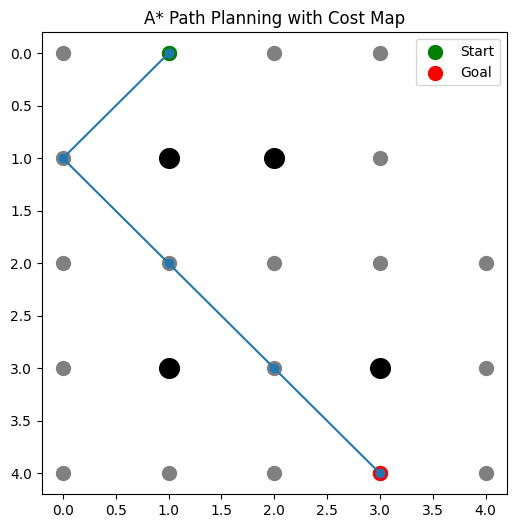
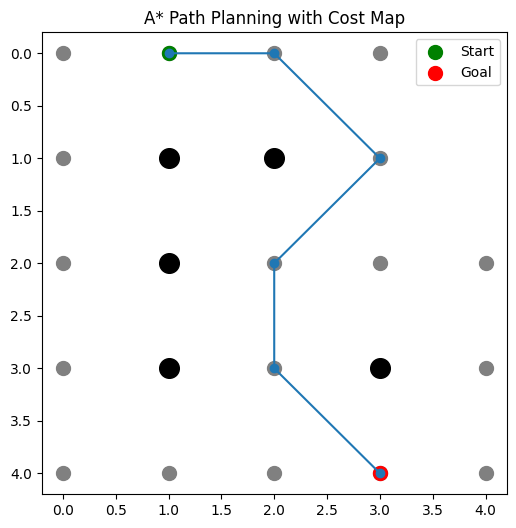
Added dynamic obstacle handling and path replanning

diff --git a/main.py b/main.py
@@ -66,6 +66,10 @@ def create_cost_map(grid):
 
     return cost_map
 
+def add_dynamic_obstacle(grid, position):
+    r, c = position
+    if 0 <= r < len(grid) and 0 <= c < len(grid[0]):
+        grid[r][c] = 1
 
 # =========================
 # A* ALGORITHM
@@ -136,7 +140,9 @@ def visualize(grid, path, start, goal):
     plt.title("A* Path Planning with Cost Map")
 
     plt.savefig("output.png", bbox_inches='tight')  # SAVE IMAGE
-    plt.show()
+    plt.show(block=False)
+    plt.pause(2)
+    plt.close()
 
 
 # =========================
@@ -180,11 +186,20 @@ if __name__ == "__main__":
     start = (0, 1)
     goal = (len(grid)-1, len(grid[0])-2)
 
-    path = astar(grid, start, goal)
+    # FIRST PATH
+    path1 = astar(grid, start, goal)
 
-    if path:
-        print("Path found:", path)
-    else:
-        print("No path found")
+    print("Initial Path:", path1)
+    visualize(grid, path1, start, goal)
 
-    visualize(grid, path, start, goal)
+    # ADD DYNAMIC OBSTACLE (middle of path)
+    if path1 and len(path1) > 3:
+        block = path1[len(path1)//2]
+        print("Adding obstacle at:", block)
+        add_dynamic_obstacle(grid, block)
+
+    # REPLAN
+    path2 = astar(grid, start, goal)
+
+    print("New Path:", path2)
+    visualize(grid, path2, start, goal)
